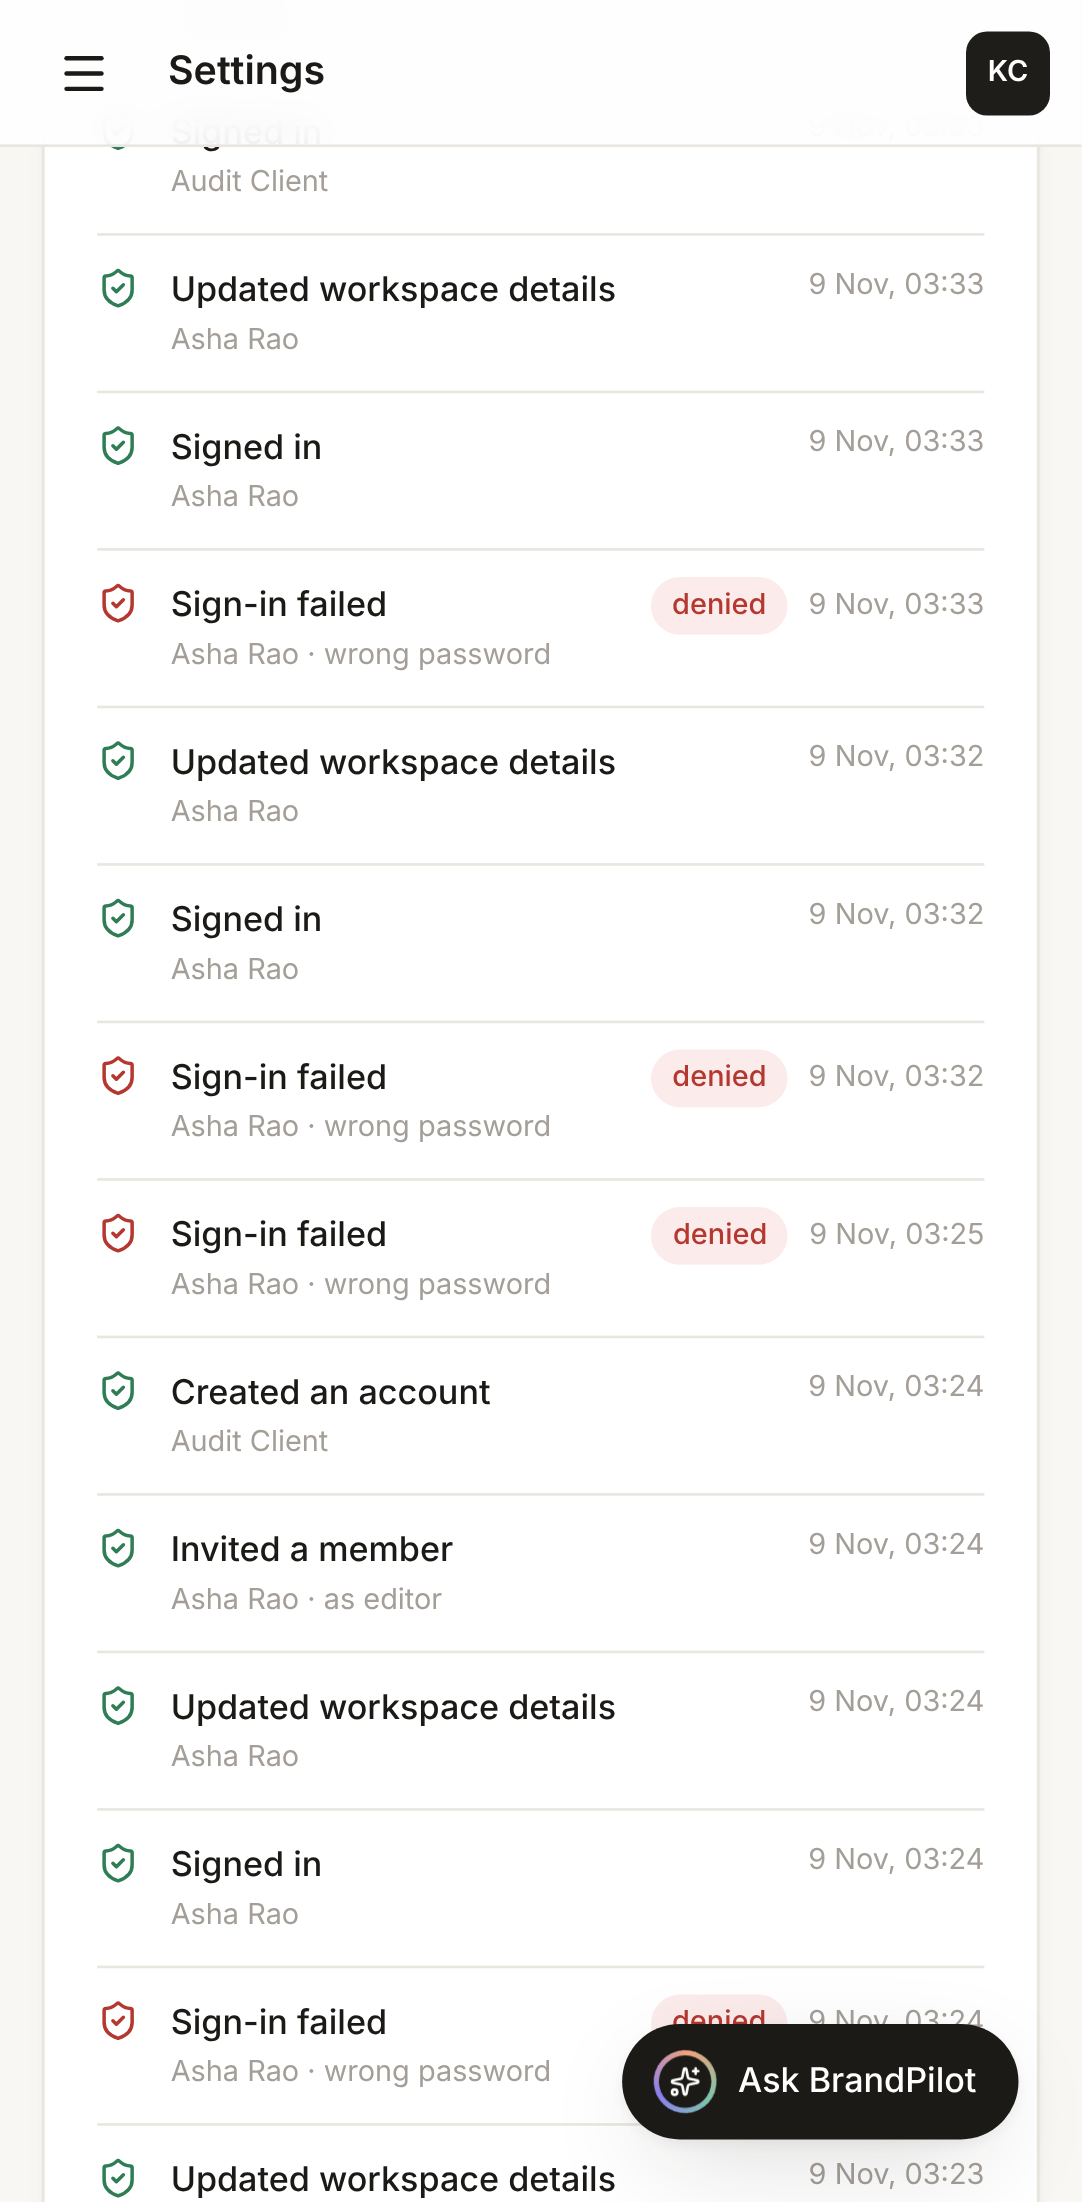
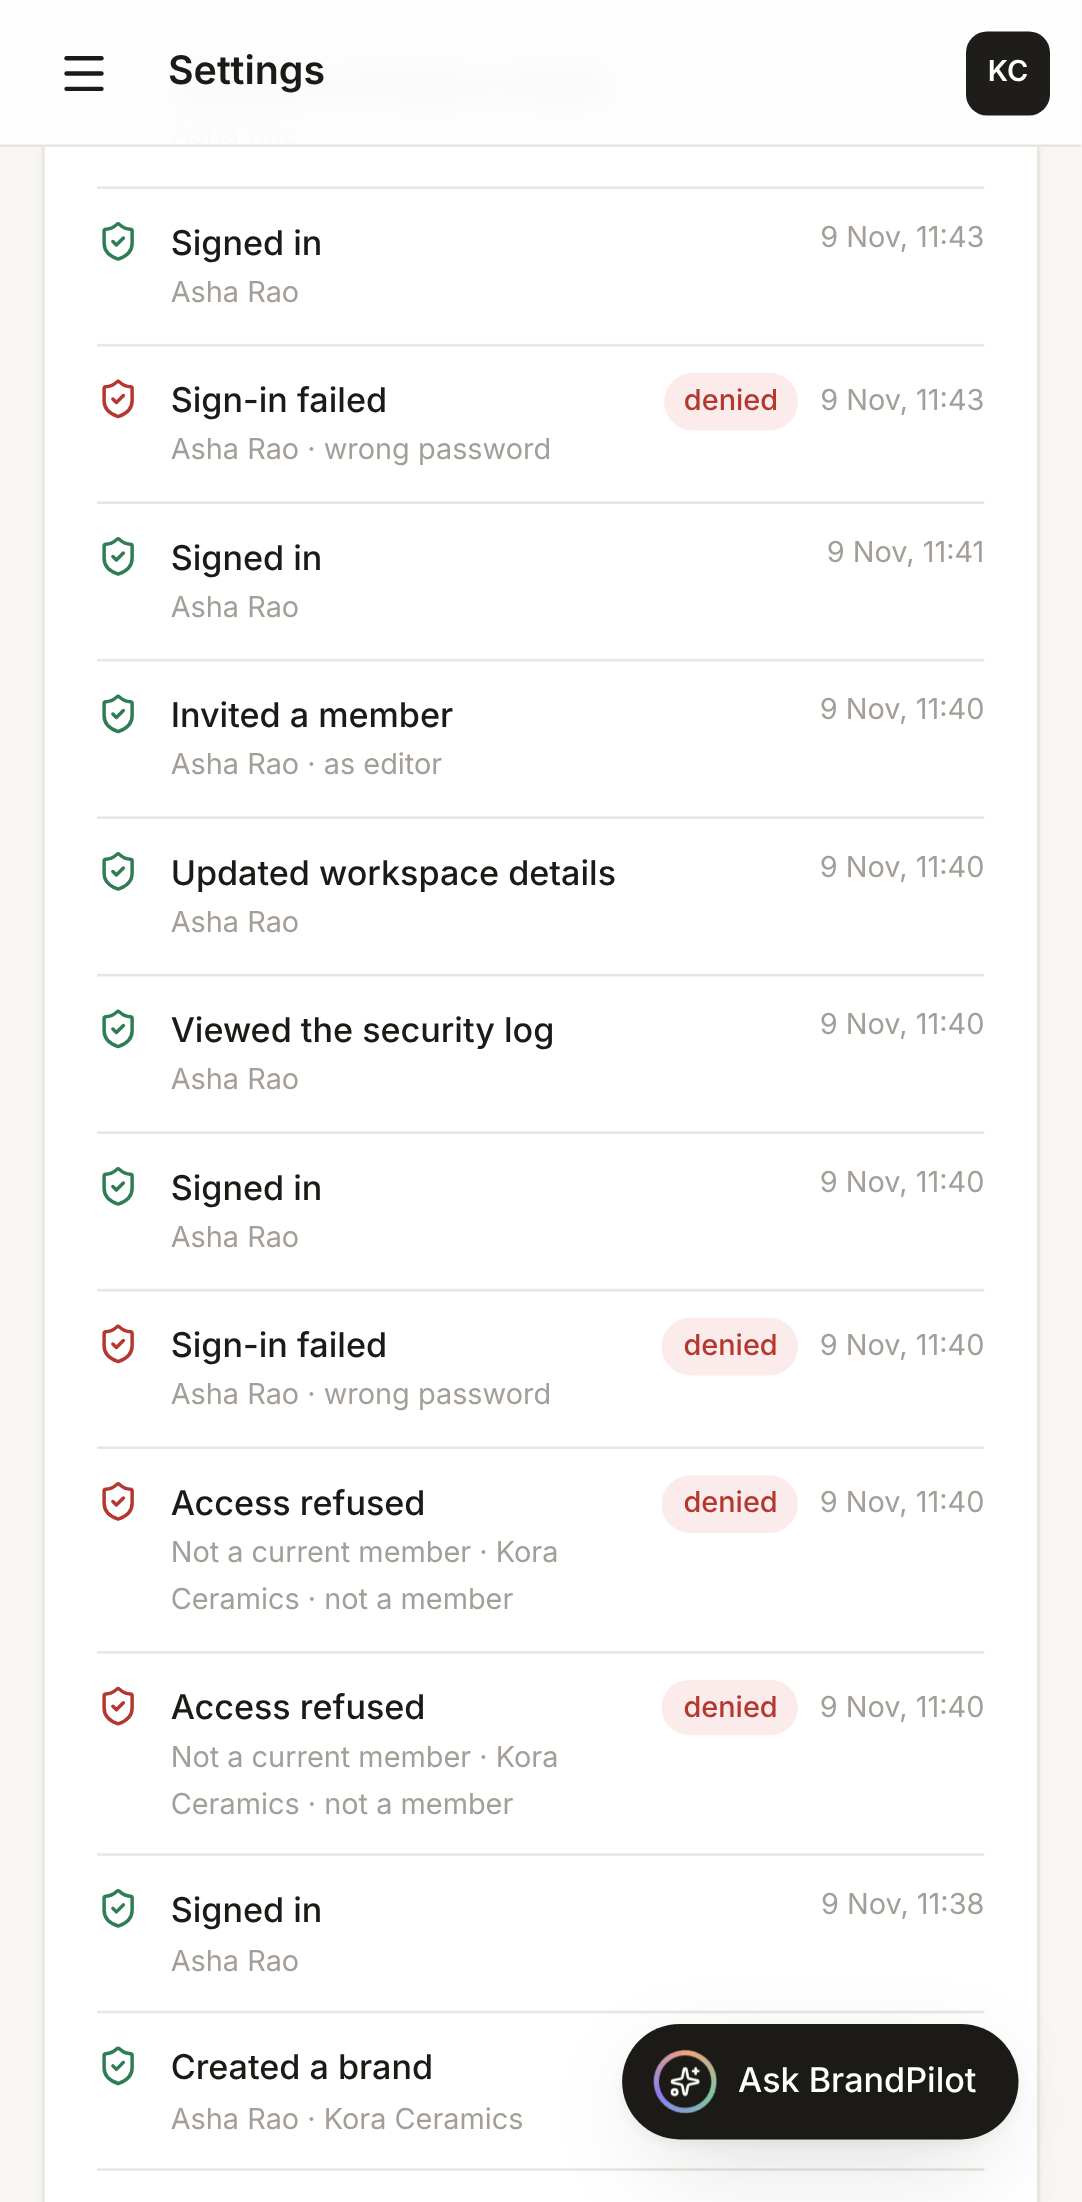
Keep the chosen workspace type after a failed sign-up; refresh PR 4.0 screenshots
A form reset restores a select's initially selected option, so the type fell back to Business
(found by the browser check). The select now remounts with the typed value. Screenshots: the
Security log as now scoped, and the sign-in error that keeps the email.

Claude-Session: https://claude.ai/code/session_017ArpCNvaij8Z6GvKqVyJLp

diff --git a/web/src/components/auth/forms.tsx b/web/src/components/auth/forms.tsx
@@ -56,7 +56,8 @@ export function SignupForm() {
           <Input name="workspace" placeholder="Acme Studio" defaultValue={state.values?.workspace} required />
         </Field>
         <Field label="You are">
-          <Select name="type" defaultValue={state.values?.type || "business"}>
+          {/* A form reset restores a select's initially selected option, so remount it with the typed value. */}
+          <Select key={state.values?.type || "business"} name="type" defaultValue={state.values?.type || "business"}>
             <option value="creator">Creator</option>
             <option value="business">Business</option>
             <option value="agency">Agency</option>
